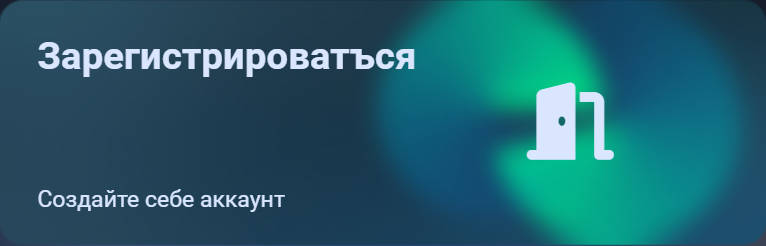
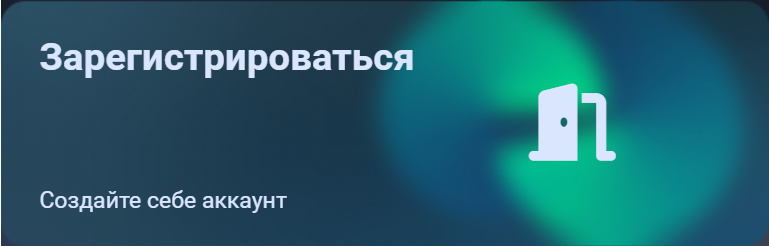
d

diff --git a/src/pages/register.jsx b/src/pages/register.jsx
@@ -136,7 +136,7 @@ const Register = () => {
             <option className='option' value="male">Male</option>
             <option className='option' value="female">Female</option>
           </Select>
-          <Button className='buttonReg' isDisabled={loading} onClick={handleSubmit}>Зарегистрироватъся  {loading ? <Spinner /> : '' }</Button>
+          <Button className='buttonReg' isDisabled={loading} onClick={handleSubmit}>Зарегистрироваться  {loading ? <Spinner /> : '' }</Button>
         </Box>
       </Box>
     </Box>
